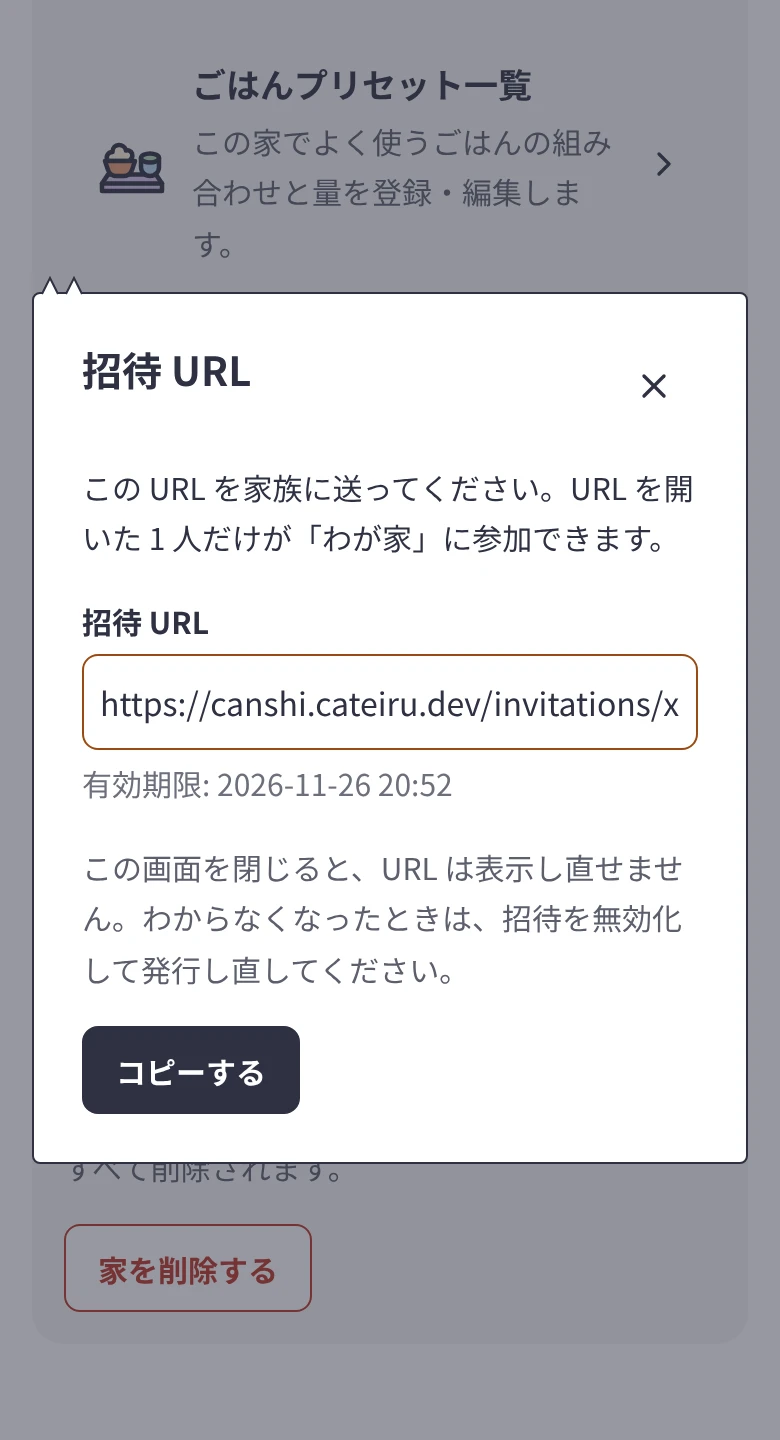
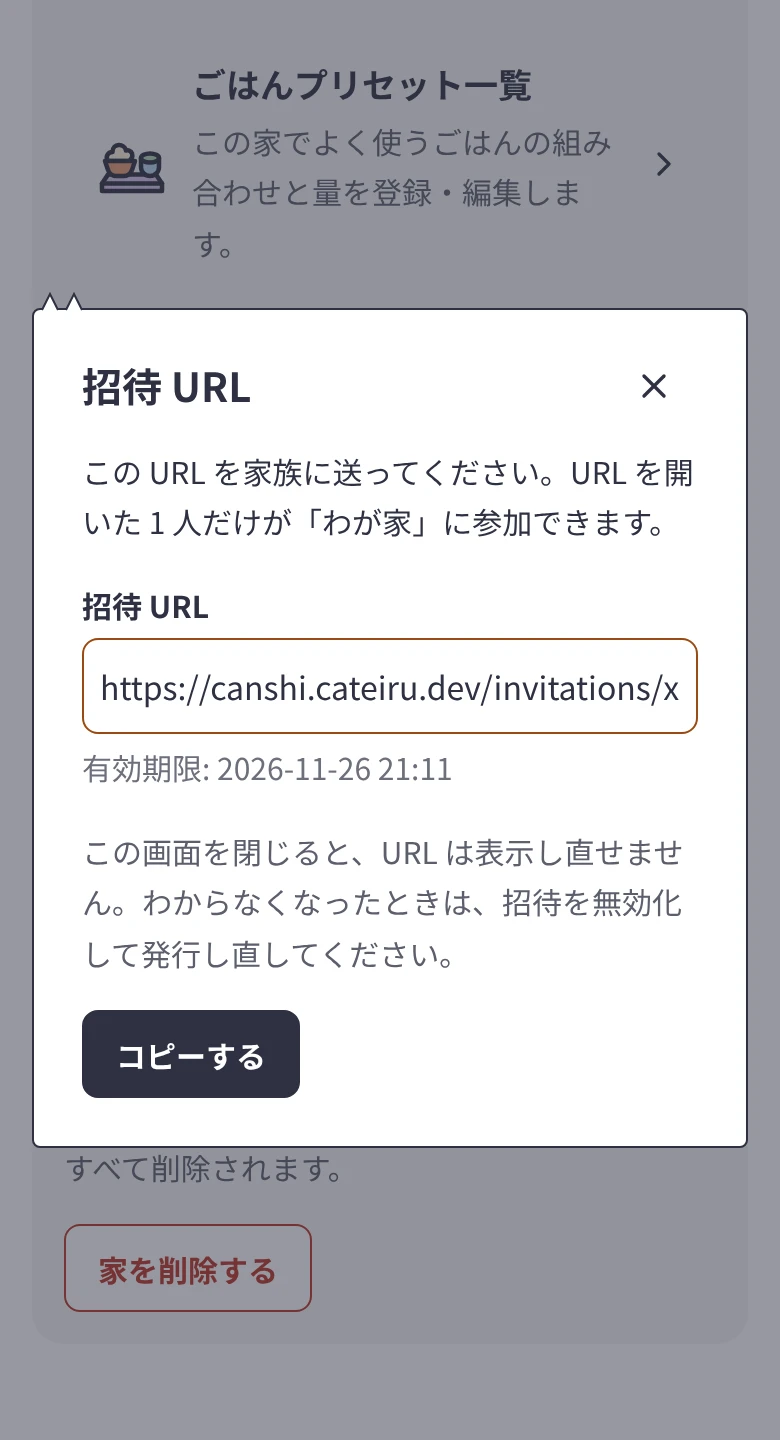
モーダルの閉じるボタンを見出しの行に揃える
押しやすさのため 44px あるボタンが見出しより下にずれていたため、上下に負の余白を取り、
ボタンの中心を見出しの 1 行目の中心に揃える。ヘルプの招待 URL のスクリーンショットも撮り直す。

Claude-Session: https://claude.ai/code/session_01GXATviBUqjVVU615GPGueW

Changed region(s): [[0.0308, 0.4062, 0.9538, 0.8125], [0.0923, 0.3125, 0.8923, 0.4062], [0.0308, 0.1875, 0.9538, 0.2812]]

diff --git a/src/components/ui/Modal/Modal.module.css b/src/components/ui/Modal/Modal.module.css
@@ -80,7 +80,12 @@
   margin-bottom: 0;
 }
 
+/*
+ * 押しやすさのためボタンは見出しの 1 行より高い。上下に負の余白を取り、ボタンの中心を見出しの
+ * 1 行目の中心に揃える（見出しが折り返しても 1 行目の横に並ぶ）
+ */
 .closeButton {
   flex: none;
   margin-left: auto;
+  margin-block: calc((var(--text-lg) * var(--line-height-heading) - 44px) / 2);
 }
